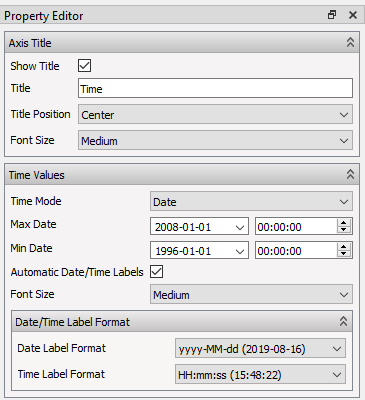
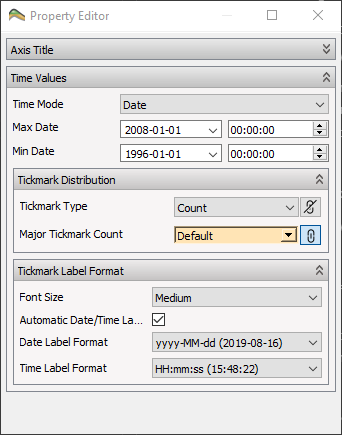
Add tick marks and well allocation over time

diff --git a/content/getting-started/whats-new/releasenotes_2023_03.md b/content/getting-started/whats-new/releasenotes_2023_03.md
@@ -27,73 +27,31 @@ A calculated summary vector for a well will now by default be available for all 
 Import of radial grids are now supported. Using I and J range filters will filter the model based on angle and radius (Theta and R).
 
 
+## Well Allocation over Time
+![]({{< relref "" >}}images/plot-window/WellAllocationOverTime.png)
+
+Use the Well Allocation over time to see how the allocation changes between time steps.
+
+
+## Summary Plot Improvements
+
+- Make sure on/off state for ensemble statistics is stable during source stepping
+- Custom time axis tick marks [[Custom Time Axis Properties]]({{< relref "summaryplots" >}}#custom-time-axis-properties)
+- Show correct group name for group vectors
+- Blank space around legend items has been reduced, makes it possible to show legends on less screen space
+- Fixed issue for import of simulations for large time span into future (after year 2262)
+- Default name for summary vector is now a descriptive text (Oil Production instead of FOPT) The settings for curve names can be controlled from [[Curve Properties]]({{< relref "summaryplots" >}}#editing-a-summary-curve)
+
+## Import of Pressure Data
 
 
 
 
 
-
-
-
-
-
-
-
-
-
-## Change Data Source by Clicking in 3D
-The data source for multiple plots can be updated by clicking on a well path in 3D. This feature can be useful for large fields with many wells and you want to investigate a small subset of wells.
-
-[Source Stepping]({{< relref "summarysourcestepping" >}}#change-well-data-source-from-3d-view) 
-
-
-
-## Linked Views Improvements
-It is now possible to get the result property values from all linked views when left-clicking on a cell in a view. Text is displayed in [Result Info]({{< relref "resultinfo" >}}), and values from other properties can also be appended. Property filters can now be linked between views, and will also work between multiple cases. 
-
-[Linked Views]({{< relref "linkedviews" >}}) 
-
-
-## Calculator Improvements
-![]({{< relref "" >}}images/3d-main-window/GridPropertyCalculatorMain.png)
-
-The grid calculator and summary curve calculator is updated with more help and improved usability. The grid property calculations will now always calculate values for active cells and do nothing for other inactive cells.
-
-[Grid Calculator]({{< relref "GridPropertyCalculator" >}}) 
-
-[Summary Calculator]({{< relref "CurveCalculator" >}}) 
-
-[Calculator Expressions]({{< relref "CalculatorExpressions" >}}) 
-
-
-## Breaking changes for user defined well paths
-
-The calculation of the geometry for a user defined well path had some defects. These issues are now fixed, and can affect the generated geometry of a user-defined well path. If the ResInsight project file was stored with a version before 2023.01, loading the project in version 2023.01 and later can potentially generate a slightly different well path geometry from the target at sea level to the first user-defined well target (the location of user-defined well targets are unchanged). The location of perforation intervals and completions are specified by measured depth, and could be shifted to a different location.
-
-Thanks to https://github.com/EdmundStephens for reporting this [issue](https://github.com/OPM/ResInsight/issues/9439).
-
-[User defined well paths]({{< relref "createnewwellpaths" >}})
-
-
-## Display of RFT segment curves
-![]({{< relref "" >}}images/plot-window/RFTSegmentPlot.png)
-
-**RFT Segment Data** can be plotted as horizontal **Well Log Plots**. This feature is now improved with more tracks and improved visual quality.
-
-[RFT Segment plots]({{< relref "rftsegmentplot" >}})
-
-
-## Import of ROFF files (Preview)
-ROFF files with properties can be imported, both in ASCII and binary form. Grid geometry and properties per cell can be imported.
-
-[ROFF grid models]({{< relref "RoffGridModels" >}})
 
 
 ## Other improvements
 
-[Wrong area for scaled fractures](https://github.com/OPM/ResInsight/issues/9473)
-
-[Improved Window Tiling]({{< relref "windowmanagement" >}})
 
 
 

diff --git a/content/plot-window/SummaryPlots.md b/content/plot-window/SummaryPlots.md
@@ -167,17 +167,18 @@ The Property Editor organizes the available options into the following groups:
 Other actions are available via right-click menu for selected curve. For instance, the Y-Axis for one or more curves can be switched for using the right-click command <b>Switch Plot Axis</b>.  
 
 
-### Time Axis Properties
+### Default Time Axis Properties
 Time axis properties are displayed by clicking the **Time Axis** subitem of a summary plot in **Plots** window. 
 
 ![]({{< relref "" >}}images/plot-window/SummaryTimeAxisProperties.png)
 
-The property groups are:
+### Custom Time Axis Properties
 
-- **Axis Title**: Toggle display of axis title, setting user defined name, position, and font. 
-- **Time Values**: Show time from *Simulation Start*, or real date-times, specific or automatic date/time range, and font.
-- **Date/Time Label Format**: Date and time format for the time axis, c.f. [Preferences]({{< relref "preferences.md" >}}) for default.
+![]({{< relref "" >}}images/plot-window/summary-custom-tick-marks.png)
 
+The time labels are automatically defined based on the available date range. The tick marks can be controlled in details by setting **Tickmark Type** to **Custom**. Then a tickmark interval and tickmark interval step can be defined.
+
+In the screenshot above, the interval is set to three years, and the plot displays labesl with three years between each.
 
 ### Y-axis Properties
 Y-axis properties are displayed by clicking one of the left/right axis subitems of a summary plot in **Plots** window.

diff --git a/content/import/PressureData.md b/content/import/PressureData.md
@@ -1,0 +1,43 @@
++++
+title = "Pressure/Depth Data"
+published = true
+weight = 30
++++
+
+## Import Pressure/Depth Data
+Importing observed time history data to ResInsight may be performed in two different ways:
+
+- By selecting the main menu item **File -> Import -> Import Pressure Depth Data**
+- By using the right-click command **Import Pressure Data** on the **Observed Data** item in the **Plot Main Window Project Tree** 
+
+
+The imported pressure data can visualized in [[RFT Plots]]({{< relref "rftplot" >}})
+
+
+
+#### Pressure/Depth File Format
+
+
+```txt
+--TVDMSL 
+RFT  
+--
+WELLNAME 'OP_1'
+DATE 28-FEB-2000
+PRESSURE DEPTH
+BARSA METRES
+302.88 1605.91
+303.88 1615.91
+304.88 1625.91
+304.38 1635.91
+--
+WELLNAME 'OP_2'
+DATE 28-FEB-2000
+PRESSURE DEPTH
+BARSA METRES
+302.88 1600.91
+303.68 1610.91
+303.88 1612.91
+303.99 1620.91
+
+```

diff --git a/content/plot-window/FlowDiagnosticsPlots.md b/content/plot-window/FlowDiagnosticsPlots.md
@@ -85,6 +85,10 @@ It is also possible to save the ascii data to a file directly by using the right
 
 The total accumulation data can also be viewed in ascci format by the command **Show Total Allocation Data**.
 
+## Well Allocation over Time
+![]({{< relref "" >}}images/plot-window/WellAllocationOverTime.png)
+
+Use the Well Allocation over time to see how the allocation changes between time steps.
 
 ## Cumulative Phase Distribution Plot
 
